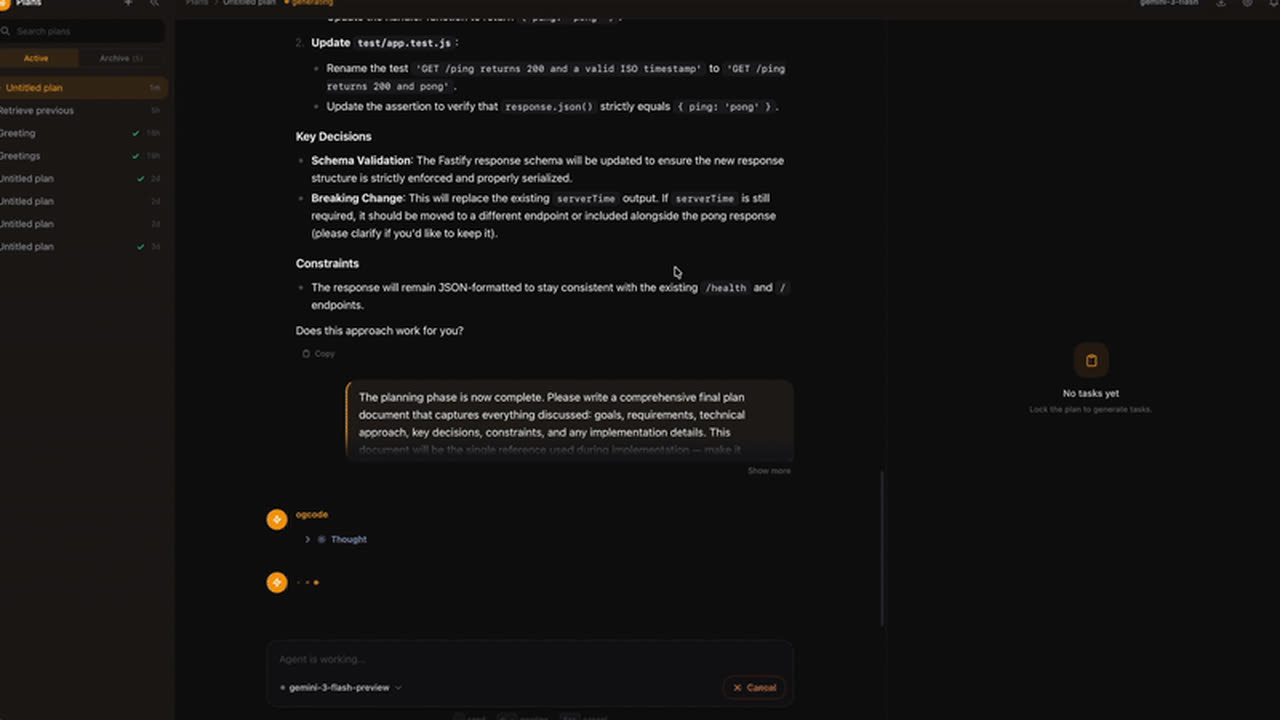
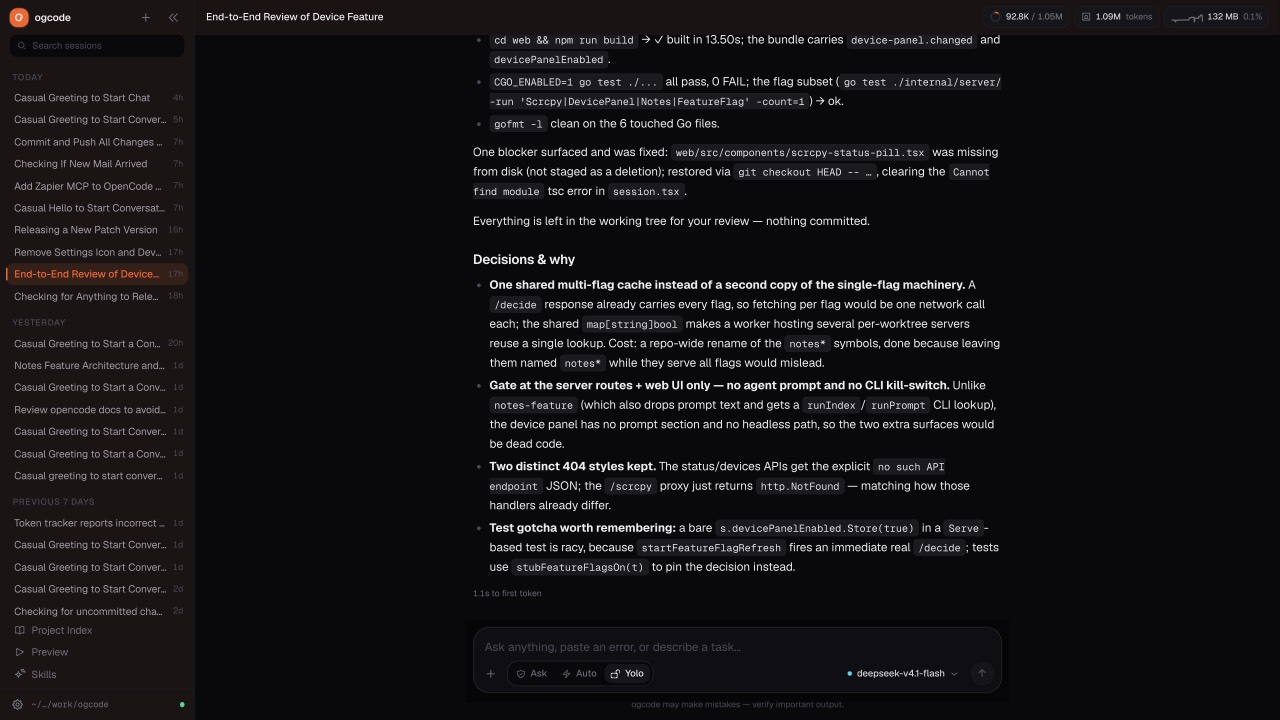
docs: rewrite the README in the opencode shape
Restructure the README to 164 lines, modelled on the opencode README:
centered logo + tagline + badges, a hero screenshot, then compressed
Installation / Agents / What you can do / Documentation / Configuration
sections. Every architecture and roadmap section is removed and depth is
delegated to https://ogcode.in/docs/.

The hero screenshot is a fresh capture of the session view (1280x720 JPEG,
both overlays hidden) replacing the stale poster; README.md:17 already
embedding this path is the whole link.

Kept deliberately: the "Remote deployment and security" heading (the
deployment guide links to its README anchor).

diff --git a/README.md b/README.md
@@ -1,50 +1,79 @@
-<div align="center">
-
-<img src="assets/ogcode-logo.png" alt="ogcode" width="180" height="180">
-
-# Ogcode
-
-**The open-source, self-hostable Grok Bot for software work.**
+<p align="center">
+  <a href="https://ogcode.in">
+    <img src="assets/ogcode-logo.png" alt="ogcode" width="180">
+  </a>
+</p>
+<p align="center"><strong>The open-source, self-hostable AI coding agent.</strong></p>
 
 Ogcode is an AI agent that understands your codebase, uses real tools, researches the web, remembers decisions, plans complex work, and ships changes — from your browser. Your computer, your models, your data, your rules.
 
-**Today:** a production-ready agentic coding workbench.
-**Our vision:** an open-source Grok Bot — a general-purpose digital teammate that works across your software, browser, and tools with your approval.
+<p align="center">
+  <a href="https://discord.gg/JQP9t8y2Zv"><img alt="Discord" src="https://img.shields.io/discord/1373677337985056828?style=flat-square&label=discord" /></a>
+  <a href="https://github.com/prasenjeet-symon/ogcode/releases"><img alt="Release" src="https://img.shields.io/github/v/release/prasenjeet-symon/ogcode?style=flat-square&label=release" /></a>
+  <a href="LICENSE"><img alt="License" src="https://img.shields.io/github/license/prasenjeet-symon/ogcode?style=flat-square&label=license&color=green" /></a>
+  <a href="https://github.com/prasenjeet-symon/ogcode"><img alt="Stars" src="https://img.shields.io/github/stars/prasenjeet-symon/ogcode?style=flat-square&label=stars" /></a>
+</p>
 
-<br/>
-
-[![Discord](https://img.shields.io/discord/1373677337985056828?label=Discord&logo=discord&logoColor=white&color=5865F2)](https://discord.gg/JQP9t8y2Zv)
-[![Release](https://img.shields.io/github/v/release/prasenjeet-symon/ogcode?label=Release&style=flat)](https://github.com/prasenjeet-symon/ogcode/releases)
-[![License](https://img.shields.io/github/license/prasenjeet-symon/ogcode?label=License&color=green)](LICENSE)
-[![Stars](https://img.shields.io/github/stars/prasenjeet-symon/ogcode?style=social)](https://github.com/prasenjeet-symon/ogcode)
-
-[Quick Start](#quick-start) · [What You Can Do](#what-you-can-do-with-ogcode) · [Configuration](#configuration) · [Contributing](#contributing) · [Docs](https://ogcode.in/docs/)
-
-</div>
+[![Ogcode web interface](docs/media/demo-poster.jpg)](https://ogcode.in)
 
 ---
 
-## What is Ogcode?
+### Installation
 
-Most AI assistants answer questions. Ogcode is built to **finish multi-step work**.
+```bash
+# YOLO
+curl -fsSL https://ogcode.in/install.sh | sh
 
-Give it a goal:
+# Package managers
+brew tap prasenjeet-symon/tap && brew install ogcode   # macOS and Linux
+winget install prasenjeet-symon.ogcode                 # Windows
+go install github.com/prasenjeet-symon/ogcode@latest   # any OS with Go
+```
 
-> “Add GitHub OAuth, write the tests, update the documentation, and open a pull request.”
+> [!TIP]
+> `CGO_ENABLED=1` is required when building from source — the Swift tree-sitter binding is cgo.
 
-It inspects the repository, forms a plan, asks before anything sensitive, edits the files, runs the commands, validates the result, records the important decisions, and organizes the work into isolated branches and pull requests. Throughout, you can watch, steer, and approve — or step away.
+On Windows without winget:
 
-Ogcode runs as one program with a built-in web interface, so you use it from any browser and keep whatever editor you already like.
+```powershell
+irm https://ogcode.in/install.ps1 | iex
+```
 
-- **Open source and self-hostable** — run it on a laptop, workstation, server, or private network.
-- **Model-agnostic** — Anthropic, OpenAI, OpenRouter, Ollama, or any compatible endpoint.
-- **Browser-native** — a complete workbench, with no IDE lock-in.
-- **Built for long-running work** — persistent memory and a context that stays a useful size.
-- **Git-native** — plans, isolated task branches, and pull requests.
-- **Permission-aware** — explore freely; gate writes, edits, and shell commands.
-- **Designed to grow** — coding is the first deeply built domain, not the last.
+Or run the container:
 
-## What you can do with Ogcode
+```bash
+docker run -p 9595:9595 \
+  -v ~/.ogcode:/root/.ogcode \
+  -v "$(pwd):/workspace" -w /workspace \
+  ghcr.io/prasenjeet-symon/ogcode:latest
+```
+
+The image is also on Docker Hub as `prasenjeetsimon/ogcode:latest`.
+
+Start it and open the web interface:
+
+```bash
+ogcode            # serves the UI on http://localhost:9595
+```
+
+Use a local model with [Ollama](https://ollama.com) — no API key needed:
+
+```bash
+ollama serve
+ogcode
+```
+
+### Agents
+
+Ogcode ships built-in agents you switch between in the web interface.
+
+- **build** — the default, full-access agent: chat, inspect, edit, run commands, and verify. It asks before anything sensitive under the Ask and Auto permission modes.
+- **plan** — a read-only agent for exploring unfamiliar code and planning changes. It can search, read, and map the project, but will not edit files.
+- **task** — a focused agent for one scoped job, run in an isolated worktree.
+
+Permissions are per session: **Ask** (approve each step), **Auto** (risk-gated), or **Yolo** (no prompts). Learn more about [permissions](https://ogcode.in/docs/permissions/).
+
+### What you can do with Ogcode
 
 - **Understand unfamiliar code** — Ogcode maps a project before reading it, outlines files with exact line ranges, and reads only what matters. [Core concepts →](https://ogcode.in/docs/core-concepts/)
 - **Build and fix software** — implement features and fixes across files, run your builds and tests, and investigate failures instead of retrying blindly.
@@ -54,76 +83,11 @@ Ogcode runs as one program with a built-in web interface, so you use it from any
 - **Research as you go** — built-in web search and page reading, reusable `SKILL.md` workflows, and external MCP servers. [Search, skills & MCP →](https://ogcode.in/docs/search-and-skills/)
 - **See more than text** — Mermaid diagrams, LaTeX and rendered PDFs, Plotly charts, sandboxed HTML, and downloadable artifacts. [Rich results & preview →](https://ogcode.in/docs/rich-results/)
 
-New here? The [Quick start guide](https://ogcode.in/docs/quick-start/) walks from a fresh install to Ogcode editing files in your repo.
+### Documentation
 
----
+For configuration, providers, skills, remote deployment, and everything else, [**head over to our docs**](https://ogcode.in/docs/).
 
-## Quick Start
-
-### macOS / Linux
-
-```bash
-curl -fsSL https://ogcode.in/install.sh | sh
-export ANTHROPIC_API_KEY=sk-ant-...
-ogcode
-```
-
-Then open `http://localhost:9595`. With Homebrew:
-
-```bash
-brew tap prasenjeet-symon/tap
-brew install ogcode
-```
-
-### Windows
-
-```powershell
-irm https://ogcode.in/install.ps1 | iex
-ogcode
-```
-
-Or with winget:
-
-```powershell
-winget install prasenjeet-symon.ogcode
-```
-
-### Docker
-
-```bash
-docker run -p 9595:9595 \
-  -v ~/.ogcode:/root/.ogcode \
-  -v "$(pwd):/workspace" -w /workspace \
-  ghcr.io/prasenjeet-symon/ogcode:latest
-```
-
-Then open `http://localhost:9595`. The image is also on Docker Hub as `prasenjeetsimon/ogcode:latest` — either reference works.
-
-### Use a local model with Ollama
-
-```bash
-ollama serve
-ogcode
-```
-
-Or point Ogcode at an explicit endpoint:
-
-```bash
-export OLLAMA_BASE_URL=http://localhost:11434/v1
-ogcode
-```
-
-### Modes
-
-```bash
-ogcode              # Build mode: chat, inspect, edit, execute, verify
-ogcode plan         # Plan mode: decompose and execute a larger feature
-ogcode -p 3000      # Run on a custom port
-```
-
----
-
-## Configuration
+### Configuration
 
 Ogcode detects your provider from the environment. Set at least one:
 
@@ -151,21 +115,7 @@ Settings can also live in `ogcode.json` at the project root (project settings) a
 
 **OGX** is a subscription plan from OG Lab. Connect it from the settings screen and the plan's models run through OG Lab's gateway — no environment variable needed.
 
-Everything else — provider, search, skill, memory, context, and deployment tuning — lives in the [documentation](https://ogcode.in/docs/).
-
----
-
-## The open-source Grok Bot vision
-
-The long-term goal is simple: **give everyone a capable, transparent, local-first AI teammate that can turn intent into finished work.**
-
-Ogcode starts with software because a codebase is an honest testbed — files are inspectable, changes are diffable, tests give feedback, and git is a safe history. The same approach then extends beyond the repository: to the browser and the tools you already use, moving information safely while keeping an audit trail. Some of this ships today; the rest is a roadmap we mark clearly rather than dress up as finished.
-
-> Ogcode is an independent open-source project inspired by the emerging AI-agent category. It is not affiliated with, endorsed by, or produced by xAI, Grok, or X.
-
----
-
-## Remote deployment and security
+### Remote deployment and security
 
 Ogcode can run on a remote machine and be reached from a browser — but it can read and modify files and run commands. **Never expose it directly to the public internet without authentication.**
 
@@ -182,22 +132,13 @@ ssh -L 9595:localhost:9595 user@your-server
 
 Working setups — SSH tunnel, reverse proxy, and Docker — are in the [remote deployment guide](https://ogcode.in/docs/deployment/). For a hosted, multi-user deployment, see the [control-plane documentation](controlplane/docs/deploy.md).
 
----
+### Contributing
 
-## Contributing
+If you're interested in contributing to Ogcode, please read [CONTRIBUTING.md](CONTRIBUTING.md) before submitting a pull request.
 
-Ogcode is open source and contributions are welcome — code, tests, documentation, skills, integrations, and design ideas.
+Development builds use `make build`, and tests run with `CGO_ENABLED=1 go test ./...`. Say hello on [Discord](https://discord.gg/JQP9t8y2Zv).
 
-1. Fork the repository and create a branch.
-2. Make your change, with tests where they matter.
-3. Run `CGO_ENABLED=1 go test ./...`.
-4. Open a pull request.
-
-Development builds use `make build`. Read [CONTRIBUTING.md](CONTRIBUTING.md) before submitting, and say hello on [Discord](https://discord.gg/JQP9t8y2Zv).
-
----
-
-## Security
+### Security
 
 Treat Ogcode like a powerful automation process:
 
@@ -209,9 +150,7 @@ Treat Ogcode like a powerful automation process:
 
 Your code and session data stay local; only conversation content is sent to the model provider you configure, where that provider's privacy policy applies.
 
----
-
-## License
+### License
 
 Ogcode is dual-licensed:
 
@@ -220,12 +159,6 @@ Ogcode is dual-licensed:
 
 Releases up to and including **v0.36.1** remain MIT. **v0.37.0 onward is AGPL-3.0-only.** Bundled third-party code is listed in [THIRD_PARTY_NOTICES.md](THIRD_PARTY_NOTICES.md).
 
-<br/>
+---
 
-<div align="center">
-
-**Build the open-source AI teammate.**
-
-[Star on GitHub](https://github.com/prasenjeet-symon/ogcode) · [Discord](https://discord.gg/JQP9t8y2Zv) · [Documentation](https://ogcode.in/docs/)
-
-</div>
+**Join our community** [Discord](https://discord.gg/JQP9t8y2Zv) | [Documentation](https://ogcode.in/docs/) | [Star on GitHub](https://github.com/prasenjeet-symon/ogcode)
